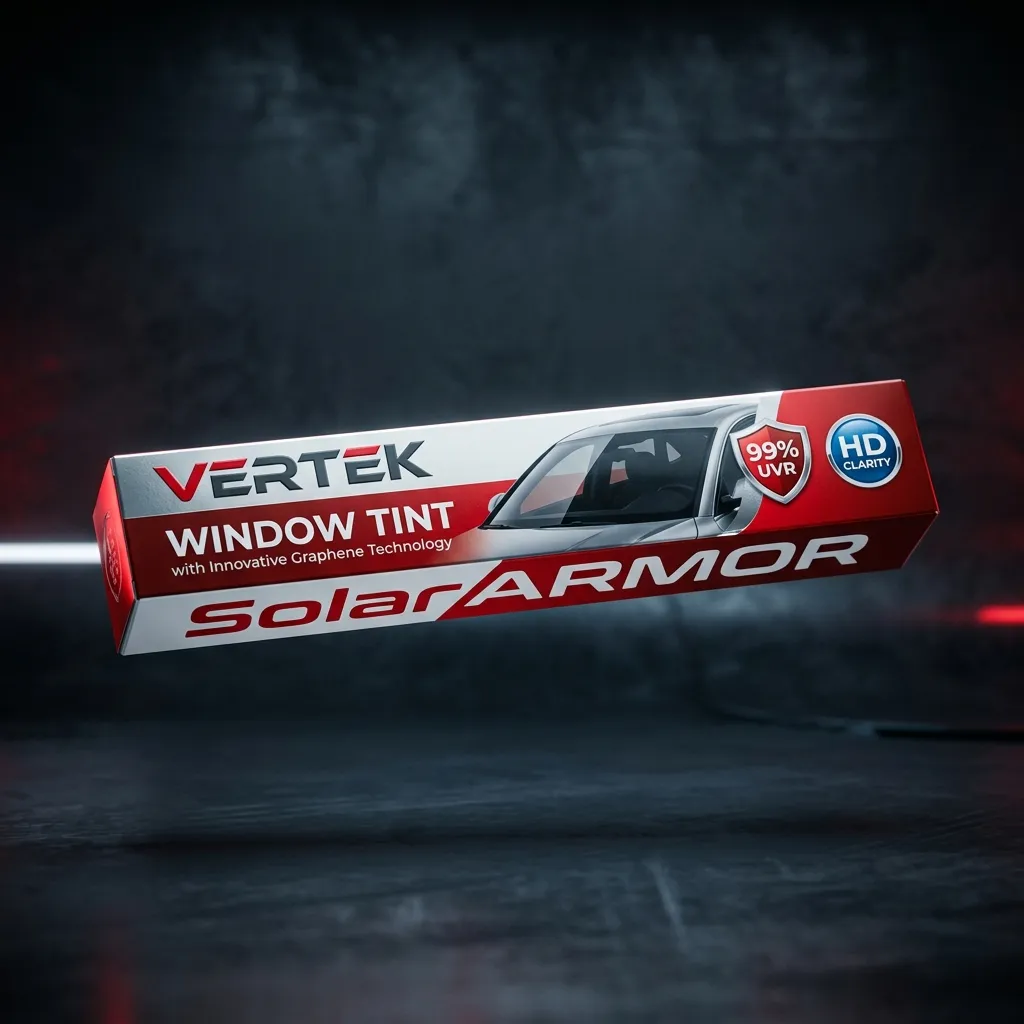
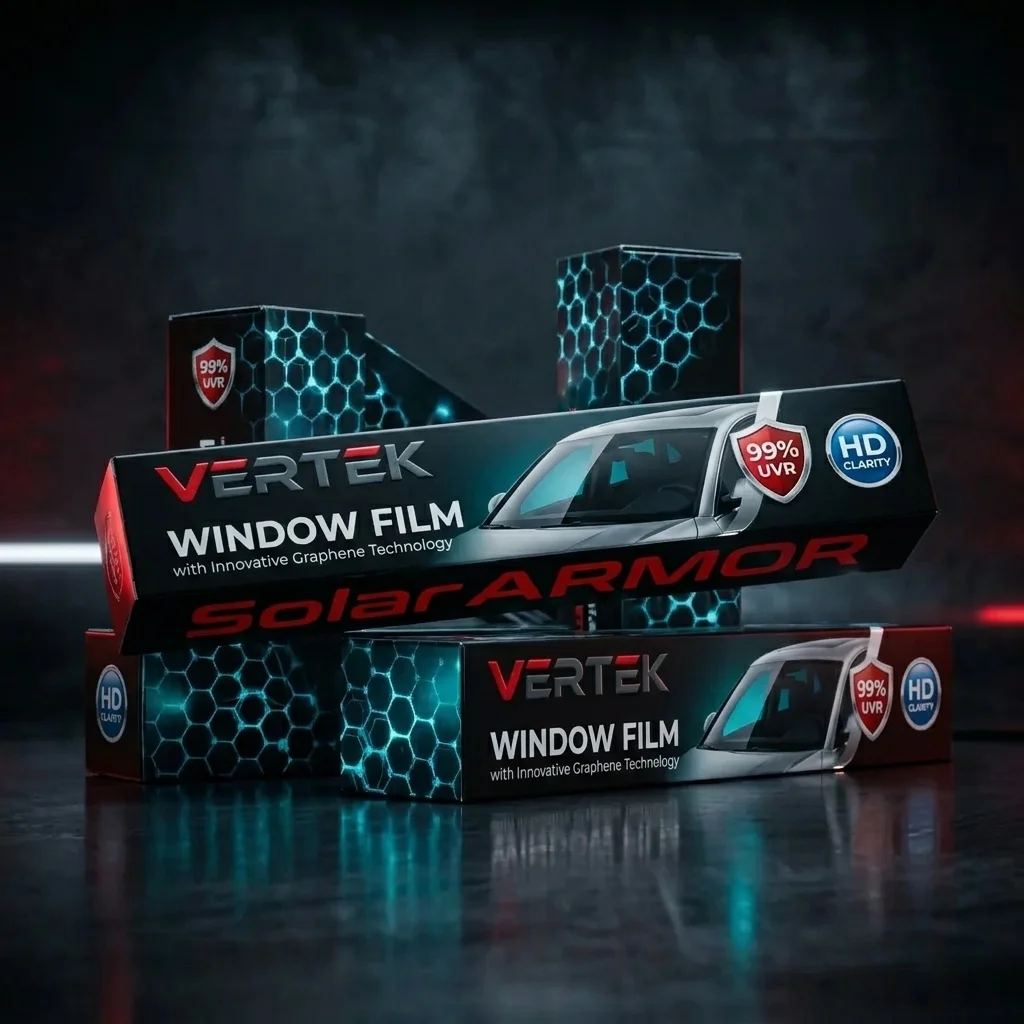
feat: add Google Ads tag (AW-18200382552) & update Vertek window tint product image
- Added Google Ads conversion tracking (gtag.js) to root layout via next/script
- Replaced vertek-window-tint.webp with new studio-style product image

Changed region(s): [[0.0625, 0.2188, 0.9375, 1.0], [0.125, 0.9688, 0.1562, 1.0]]

diff --git a/src/app/[locale]/layout.tsx b/src/app/[locale]/layout.tsx
@@ -142,6 +142,21 @@ export default async function LocaleLayout({
       className={`${fontSans.variable} ${fontDisplay.variable} ${fontArabic.variable} ${fontArabicDisplay.variable}`}
       suppressHydrationWarning
     >
+      <head>
+        {/* Google tag (gtag.js) — Google Ads conversion tracking */}
+        <Script
+          src="https://www.googletagmanager.com/gtag/js?id=AW-18200382552"
+          strategy="afterInteractive"
+        />
+        <Script id="gtag-init" strategy="afterInteractive">
+          {`
+            window.dataLayer = window.dataLayer || [];
+            function gtag(){dataLayer.push(arguments);}
+            gtag('js', new Date());
+            gtag('config', 'AW-18200382552');
+          `}
+        </Script>
+      </head>
       <body className="min-h-dvh bg-(--color-bg) text-(--color-text) antialiased">
         {/* Keyboard-first users land here — `sr-only` hides until focus,
             then `focus:not-sr-only` reveals the link as a visible gold pill. */}